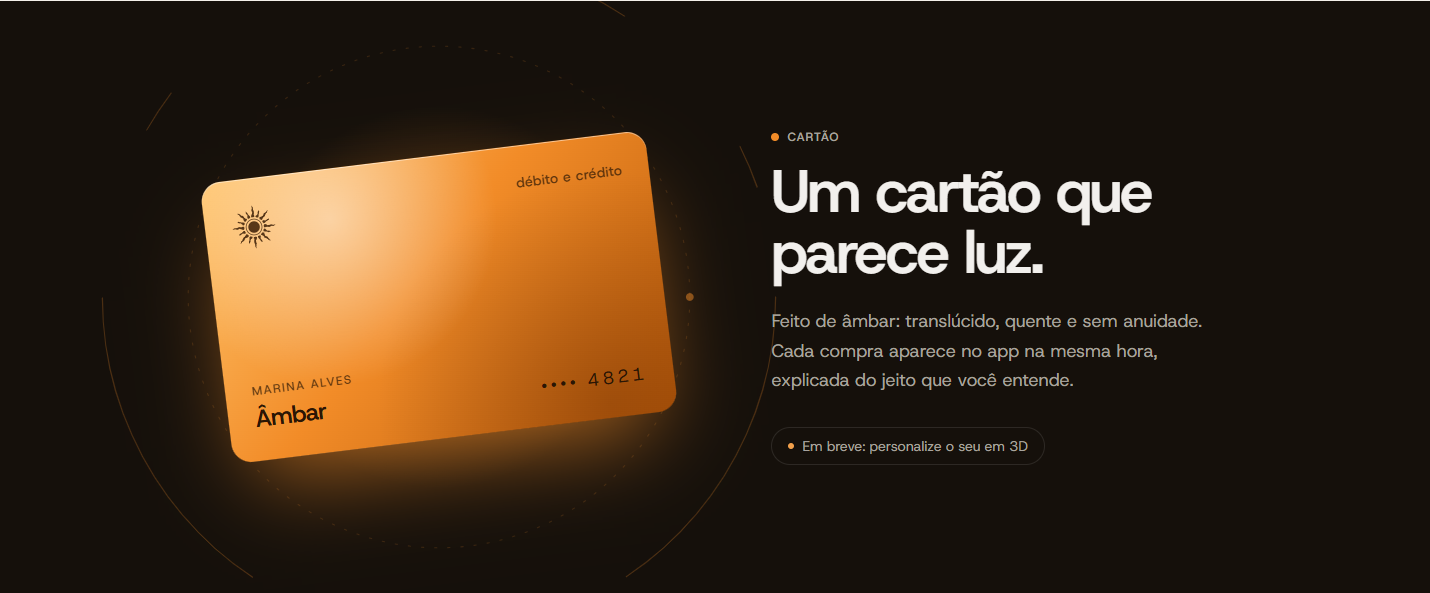
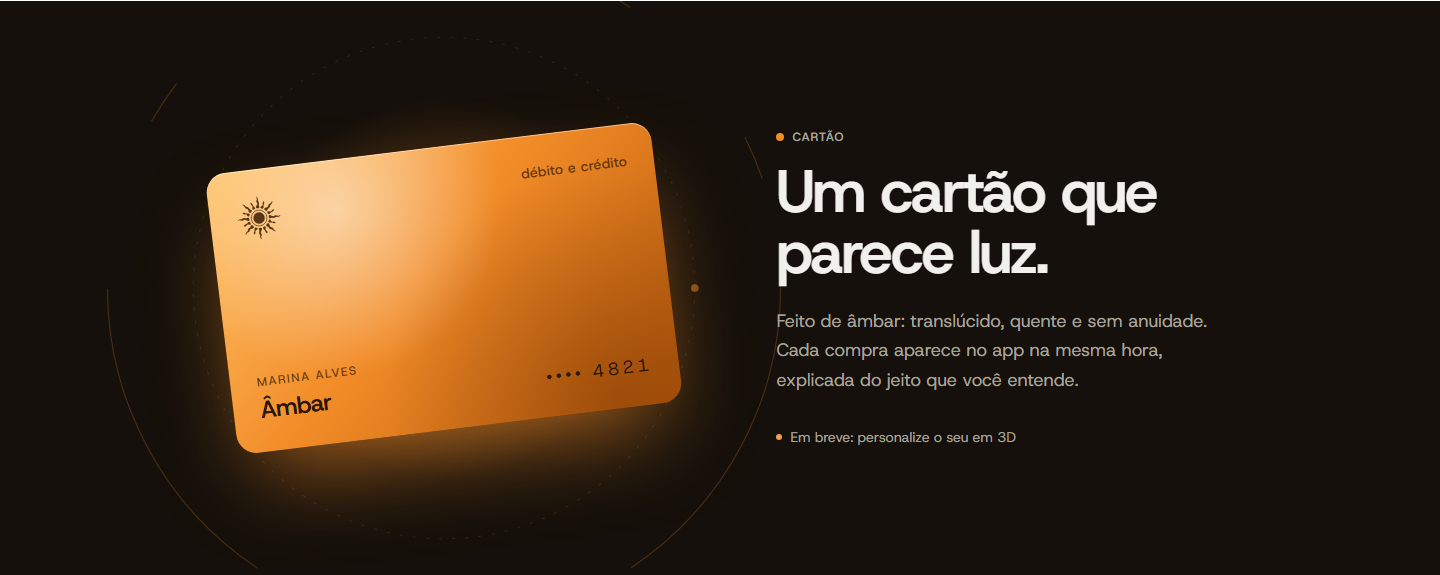
docs: README screenshots generated by Playwright, plus visual fixes they revealed

diff --git a/e2e/screenshots.spec.ts b/e2e/screenshots.spec.ts
@@ -1,0 +1,75 @@
+/*
+ * README pictures, regenerated in one command instead of by hand:
+ *   SCREENSHOTS=1 npx playwright test screenshots --project=desktop
+ * Skipped in normal runs. Reduced motion, so no animation is caught halfway.
+ */
+import { devices, expect, test, type Page } from "@playwright/test";
+
+const OUT = "docs/readme";
+test.skip(!process.env.SCREENSHOTS, "Only when regenerating the README pictures.");
+test.use({ colorScheme: "light", reducedMotion: "reduce" });
+
+async function settle(page: Page) {
+  await page.waitForLoadState("networkidle");
+  await page.evaluate(() => document.fonts.ready);
+  await page.waitForTimeout(800); // opacity fades still run with reduced motion
+}
+
+async function signIn(page: Page) {
+  await page.goto("/login");
+  await page.getByRole("button", { name: "Entrar como Marina" }).click();
+  await expect(page.getByRole("heading", { name: "Olá, Marina." })).toBeVisible();
+}
+
+async function section(page: Page, selector: string, name: string) {
+  const target = page.locator(selector).first();
+  await target.scrollIntoViewIfNeeded();
+  await settle(page);
+  await target.screenshot({ path: `${OUT}/${name}.png` });
+}
+
+test.describe("desktop", () => {
+  test.use({ viewport: { width: 1440, height: 900 }, deviceScaleFactor: 1 });
+
+  test("landing", async ({ page }) => {
+    await page.goto("/");
+    await settle(page);
+    await page.screenshot({ path: `${OUT}/hero.png` });
+    await section(page, "#clareza", "clareza");
+    await section(page, "#avisos", "avisos");
+    await section(page, "#nao-julga", "nao-julga");
+    await section(page, "#cartao", "cartao");
+  });
+
+  test("dashboard and statement", async ({ page }) => {
+    await signIn(page);
+    await settle(page);
+    await page.screenshot({ path: `${OUT}/painel.png`, fullPage: true });
+    await page.getByRole("link", { name: "Extrato" }).click();
+    await expect(page.getByRole("radio", { name: "novembro" })).toBeChecked();
+    await settle(page);
+    await page.screenshot({ path: `${OUT}/extrato.png` });
+  });
+});
+
+test.describe("phone", () => {
+  // The phone's screen, not its browser type (that can't change inside a describe).
+  const pixel = devices["Pixel 7"];
+  test.use({
+    viewport: pixel.viewport,
+    userAgent: pixel.userAgent,
+    isMobile: true,
+    hasTouch: true,
+    deviceScaleFactor: 1,
+  });
+
+  test("landing and dashboard", async ({ page }) => {
+    await page.goto("/");
+    await settle(page);
+    await page.screenshot({ path: `${OUT}/mobile-hero.png` });
+    await section(page, "#clareza", "mobile-clareza");
+    await signIn(page);
+    await settle(page);
+    await page.screenshot({ path: `${OUT}/mobile-painel.png` });
+  });
+});

diff --git a/src/features/banking/statement.tsx b/src/features/banking/statement.tsx
@@ -100,7 +100,8 @@ function MonthOption({
           className="absolute inset-0 -z-10 rounded-pill bg-white shadow-[0_1px_2px_rgb(22_18_14/0.08),0_4px_14px_-6px_rgb(22_18_14/0.2)]"
         />
       )}
-      <span className="first-letter:uppercase">{label}</span>
+      {/* first-letter only works on blocks: inline-block, so "novembro" shows as "Novembro". */}
+      <span className="inline-block first-letter:uppercase">{label}</span>
     </label>
   );
 }
@@ -154,7 +155,7 @@ function MonthSummary({
   const segments = month.segments.filter((s) => s.spent > 0);
   const dimmed = (key: SegmentKey) => active !== "todos" && active !== key;
   return (
-    <div className={`${CARD} grid gap-8 md:grid-cols-[1fr_15rem] md:items-center`}>
+    <div className={`${CARD} grid gap-8 md:grid-cols-[1fr_17rem] md:items-center`}>
       <div>
         <h2 className="text-2xl font-semibold tracking-tight first-letter:uppercase">
           {month.label}
@@ -205,7 +206,7 @@ function MonthSummary({
               aria-hidden="true"
               className={`size-2.5 shrink-0 rounded-full ${SEGMENT_COLOR[s.key]}`}
             />
-            <span className="text-ink-muted">{s.label}</span>
+            <span className="text-ink-muted md:whitespace-nowrap">{s.label}</span>
             <span className="ml-auto pl-4 tabular-nums">
               <Money cents={s.spent} />
             </span>

diff --git a/src/features/banking/dashboard.tsx b/src/features/banking/dashboard.tsx
@@ -119,7 +119,8 @@ function DashboardView({ data }: { data: DashboardData }) {
         <m.section
           variants={MATERIALIZE}
           aria-labelledby="projection-title"
-          className={`${CARD} md:col-span-3 md:row-span-2`}
+          // flex column: when the card stretches to the right column, the bar and the math sit at the bottom.
+          className={`${CARD} flex flex-col md:col-span-3 md:row-span-2`}
         >
           <p className="flex items-center gap-2 text-sm font-medium text-ink-muted">
             <span aria-hidden="true" className="size-2 rounded-full bg-amber-signal" />
@@ -144,7 +145,7 @@ function DashboardView({ data }: { data: DashboardData }) {
               Dá para ajustar gastando <Money cents={projection.dailyCut} /> a menos por dia.
             </p>
           )}
-          <div aria-hidden="true" className="mt-8 h-2 rounded-pill bg-paper">
+          <div aria-hidden="true" className="mt-8 h-2 rounded-pill bg-paper md:mt-auto">
             <m.div
               initial={{ scaleX: 0 }}
               animate={{ scaleX: 1 }}

diff --git a/src/features/landing/alerts-section.tsx b/src/features/landing/alerts-section.tsx
@@ -149,10 +149,10 @@ export function AlertsSection() {
                   </span>
                   <RiseBar
                     delay={0.25 + index * 0.08}
-                    className={`w-full rounded-xl ${BAR[charge.kind]}`}
+                    className={`w-8 rounded-lg sm:w-10 ${BAR[charge.kind]}`}
                     style={{ height: `${(charge.cents / NEW_PRICE) * 6}rem` }}
                   />
-                  <span className="text-ink-muted capitalize">
+                  <span className="block text-ink-muted first-letter:uppercase">
                     {charge.kind === "next" ? "amanhã (previsto)" : charge.month}
                   </span>
                 </li>

diff --git a/src/features/banking/statement-skeleton.tsx b/src/features/banking/statement-skeleton.tsx
@@ -8,7 +8,7 @@ function Block({ className }: { className: string }) {
 export function StatementSkeleton() {
   return (
     <div role="status" aria-label="Carregando o extrato" className="space-y-6">
-      <div className={`${CARD} grid gap-8 md:grid-cols-[1fr_15rem] md:items-center`}>
+      <div className={`${CARD} grid gap-8 md:grid-cols-[1fr_17rem] md:items-center`}>
         <div>
           <Block className="h-7 w-56" />
           <Block className="mt-7 h-12 w-72 max-w-full" />

diff --git a/README.md b/README.md
@@ -65,7 +65,9 @@ O Âmbar faz o contrário. A dor que originou o projeto foi simples: _"elementos
 
 ## ☀ Telas
 
-<img src="docs/readme/hero.png" alt="Primeira dobra da landing: título 'Sem susto no fim do mês', cartão de saldo, cartão de projeção e órbitas do sol" width="100%" />
+> Prints gerados pelo Playwright (`SCREENSHOTS=1 npx playwright test screenshots --project=desktop`), então eles mostram o site como ele é, não um mockup.
+
+<img src="docs/readme/hero.png" alt="Primeira dobra da landing: título Sem susto no fim do mês, cartão de saldo, cartão de projeção e órbitas do sol" width="100%" />
 
 <p align="center"><sub><b>Hero</b> · o cartão de saldo e a projeção mostram o conceito antes do botão. As órbitas são o anel do logo, ampliado.</sub></p>
 
@@ -73,13 +75,19 @@ O Âmbar faz o contrário. A dor que originou o projeto foi simples: _"elementos
 
 <img src="docs/readme/clareza.png" alt="Seção Clareza: simulador interativo da projeção até o salário" width="100%" />
 
-<p align="center"><sub><b>Clareza</b> · um simulador de verdade: mude os números e a conta se refaz, calculada pela mesma função que o dashboard vai usar.</sub></p>
+<p align="center"><sub><b>Clareza</b> · um simulador de verdade: mude os números e a conta se refaz, com o número rolando até o novo valor. Usa a mesma função do painel.</sub></p>
 
 <br />
 
-<img src="docs/readme/avisos.png" alt="Seção Avisos: três cartões de aviso, cada um com 'Como sabemos'" width="100%" />
+<img src="docs/readme/avisos.png" alt="Seção Avisos: a renovação em destaque com o histórico de cobranças, a comparação e a projeção" width="100%" />
 
-<p align="center"><sub><b>Avisos</b> · os três tipos de insight. A cor de aviso (o sino) é separada do âmbar da marca, e todo aviso tem ícone além da cor.</sub></p>
+<p align="center"><sub><b>Avisos</b> · os três tipos de insight, calculados a partir dos dados da Marina. O histórico mostra <i>como</i> o Âmbar sabe que é uma assinatura.</sub></p>
+
+<br />
+
+<img src="docs/readme/nao-julga.png" alt="Seção Não julga: um iPhone na tela de bloqueio com o seletor Banco comum ou Âmbar" width="100%" />
+
+<p align="center"><sub><b>Não julga</b> · a mesma compra recusada, contada por dois bancos. A troca de cenas é CSS puro (<code>:has()</code> em rádios nativos).</sub></p>
 
 <br />
 
@@ -89,13 +97,25 @@ O Âmbar faz o contrário. A dor que originou o projeto foi simples: _"elementos
 
 <br />
 
+<img src="docs/readme/painel.png" alt="Painel da conta demo: projeção até o salário, saldo, avisos e últimas transações" width="100%" />
+
+<p align="center"><sub><b>Painel</b> · nada aqui é texto fixo: R$ 612,00, a renovação e a comparação saem das regras rodando sobre 148 transações, servidas por uma API falsa (MSW).</sub></p>
+
+<br />
+
+<img src="docs/readme/extrato.png" alt="Extrato: filtros de mês e categoria, resumo do mês com barra colorida e a lista por dia" width="100%" />
+
+<p align="center"><sub><b>Extrato</b> · um mês por vez, filtro por categoria e a comparação aparecendo no meio da lista. Cores de categoria validadas para daltonismo.</sub></p>
+
+<br />
+
 <div align="center">
   <img src="docs/readme/mobile-hero.png" alt="Hero no celular" width="30%" />
   &nbsp;
   <img src="docs/readme/mobile-clareza.png" alt="Simulador no celular" width="30%" />
   &nbsp;
-  <img src="docs/readme/mobile-cartao.png" alt="Cartão no celular" width="30%" />
-  <p><sub><b>Mobile-first</b> · a partir de 320 px, sem rolagem lateral. No celular, o exemplo aparece antes do botão.</sub></p>
+  <img src="docs/readme/mobile-painel.png" alt="Painel no celular" width="30%" />
+  <p><sub><b>Mobile-first</b> · a partir de 320 px, sem rolagem lateral (um teste do Playwright garante). No celular, o exemplo aparece antes do botão.</sub></p>
 </div>
 
 <br />
